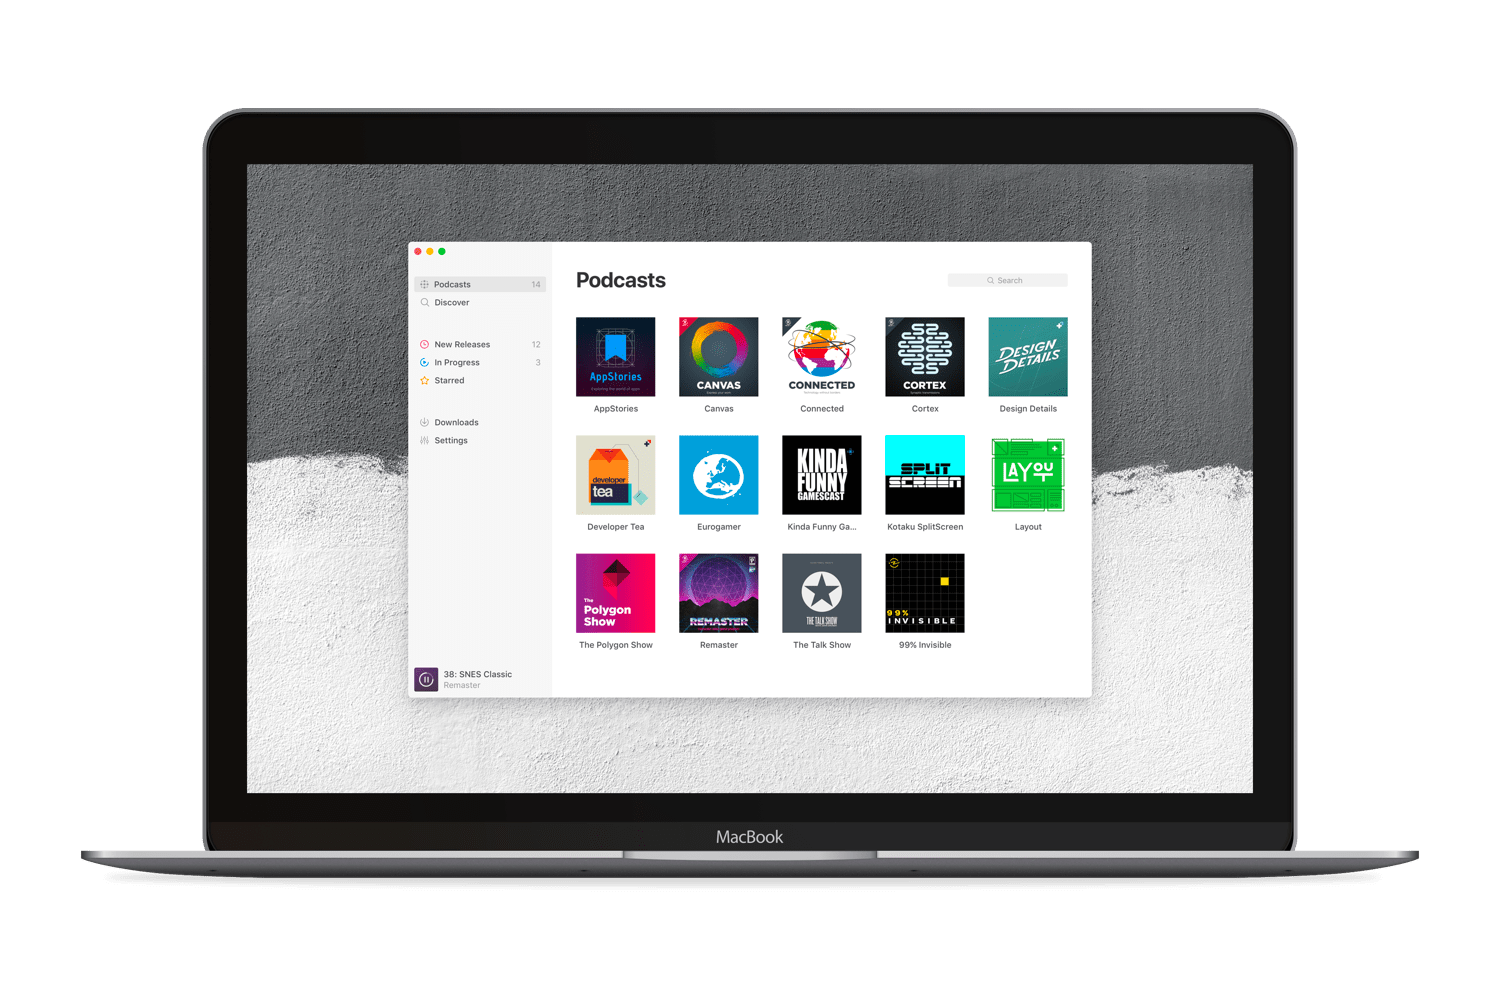
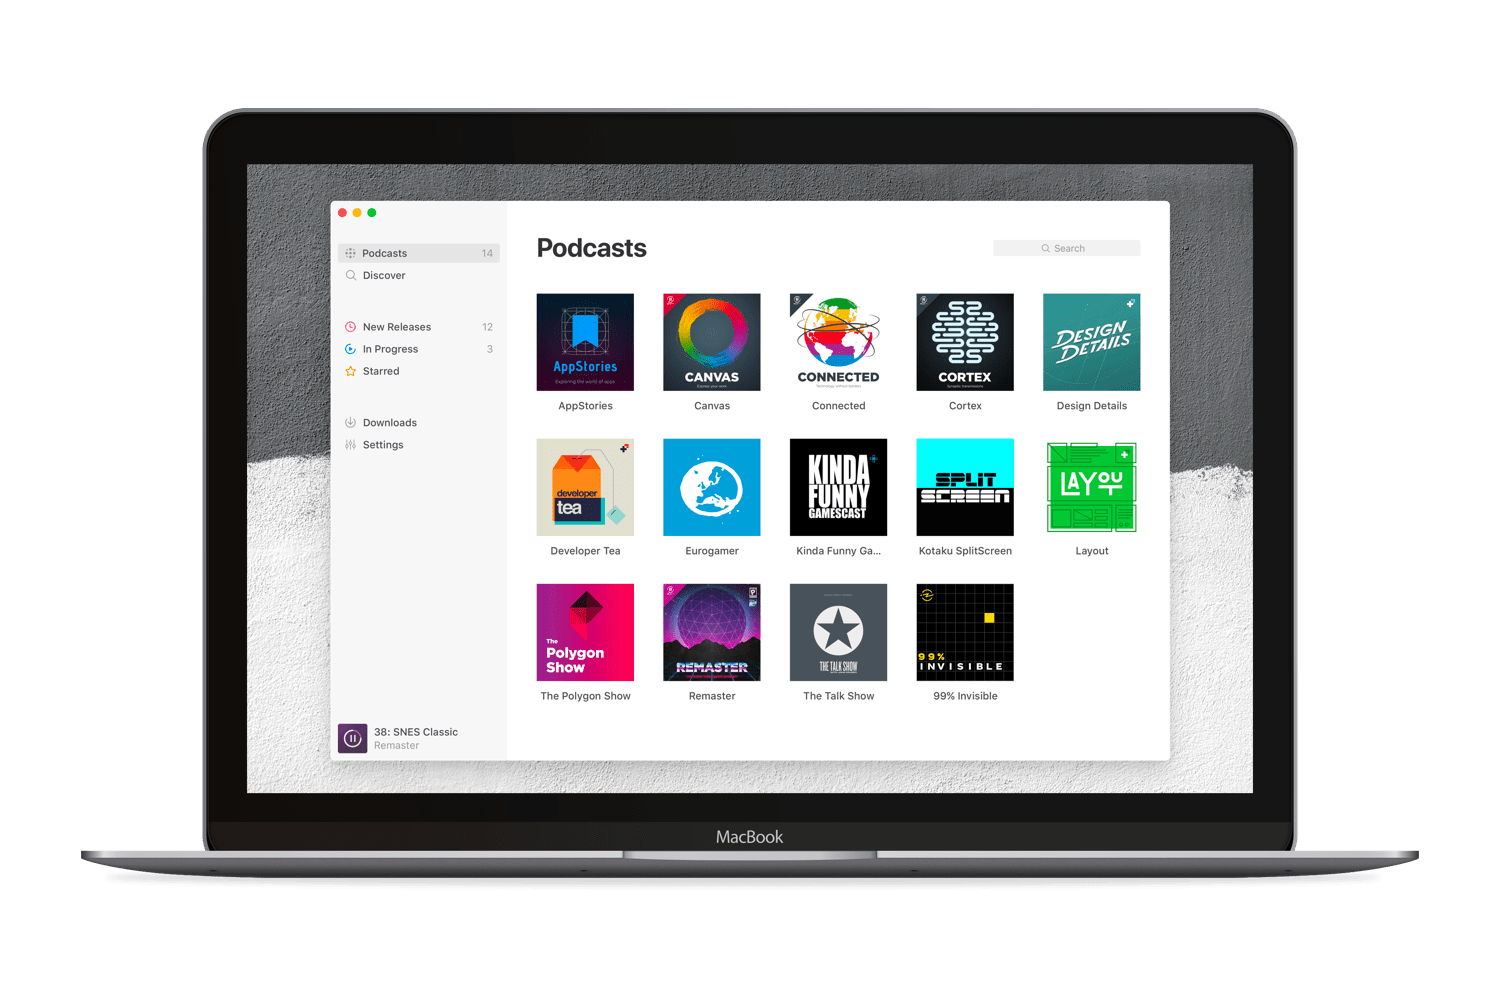
Post launch tweaks
- Added selected state to '.c-nav'
- Added captions underneath figures in case studies
- Logo is now a bit bigger on '$b__large'
- Tweaked figcaption position and font-size on larger breakpoints
- Updated Castaway artwork

Changed region(s): [[0.2147, 0.186, 0.7973, 0.775]]

diff --git a/_layouts/case-castaway.html b/_layouts/case-castaway.html
@@ -15,8 +15,8 @@
       </article>
    </section>
    {% include case-section-bleed.html
-      img="https://res.cloudinary.com/matter/image/upload/v1508749587/work/castaway/case__castaway--cover.png"
-      img2x="https://res.cloudinary.com/matter/image/upload/v1508749587/work/castaway/case__castaway--cover_2x.png"
+      img="https://res.cloudinary.com/matter/image/upload/v1509009836/work/castaway/case__castaway--cover.png"
+      img2x="https://res.cloudinary.com/matter/image/upload/v1509009836/work/castaway/case__castaway--cover_2x.png"
       imgalt="Castaway for macOS"
    %}
    <section class="c-section c-section--content">
@@ -26,24 +26,28 @@
    </section>
    <section class="c-section c-section--extend">
       {% include case-figure.html
-         img="https://res.cloudinary.com/matter/image/upload/v1508754846/work/castaway/case__castaway--podcasts.png"
-         img2x="https://res.cloudinary.com/matter/image/upload/v1508754846/work/castaway/case__castaway--podcasts_2x.png"
+         img="https://res.cloudinary.com/matter/image/upload/v1509009835/work/castaway/case__castaway--podcasts.png"
+         img2x="https://res.cloudinary.com/matter/image/upload/v1509009835/work/castaway/case__castaway--podcasts_2x.png"
          imgalt="Podcasts"
+         caption="Viewing podcasts doesn't get much prettier than this."
       %}
       {% include case-figure.html
-         img="https://res.cloudinary.com/matter/image/upload/v1508754916/work/castaway/case__castaway--podcastdetail.png"
-         img2x="https://res.cloudinary.com/matter/image/upload/v1508754921/work/castaway/case__castaway--podcastdetail_2x.png"
+         img="https://res.cloudinary.com/matter/image/upload/v1509009835/work/castaway/case__castaway--podcastdetail.png"
+         img2x="https://res.cloudinary.com/matter/image/upload/v1509009835/work/castaway/case__castaway--podcastdetail_2x.png"
          imgalt="Podcast detail"
+         caption="When viewing a podcast, the app lists all the episodes along with information about the podcast."
       %}
       {% include case-figure.html
-         img="https://res.cloudinary.com/matter/image/upload/v1508754917/work/castaway/case__castaway--discover.png"
-         img2x="https://res.cloudinary.com/matter/image/upload/v1508754918/work/castaway/case__castaway--discover_2x.png"
+         img="https://res.cloudinary.com/matter/image/upload/v1509009835/work/castaway/case__castaway--discover.png"
+         img2x="https://res.cloudinary.com/matter/image/upload/v1509009836/work/castaway/case__castaway--discover_2x.png"
          imgalt="Discover podcasts"
+         caption="The 'Discover' section is laid out almost like an 'App Store' of some sorts with clear imagery and the ability to browse based on category."
       %}
       {% include case-figure.html
-         img="https://res.cloudinary.com/matter/image/upload/v1508754917/work/castaway/case__castaway--addpodcast.png"
-         img2x="https://res.cloudinary.com/matter/image/upload/v1508754918/work/castaway/case__castaway--addpodcast_2x.png"
+         img="https://res.cloudinary.com/matter/image/upload/v1509009836/work/castaway/case__castaway--addpodcast.png"
+         img2x="https://res.cloudinary.com/matter/image/upload/v1509009840/work/castaway/case__castaway--addpodcast_2x.png"
          imgalt="Add a podcast"
+         caption="Adding a podcast is as easy as clicking Subscribe."
       %}
    </section>
    <section class="c-section c-section--bleed" style="display:none;">

diff --git a/_layouts/case-realo.html b/_layouts/case-realo.html
@@ -37,41 +37,49 @@
          img="https://res.cloudinary.com/matter/image/upload/v1508688297/work/realo/case__realo--machome.png"
          img2x="https://res.cloudinary.com/matter/image/upload/v1508688298/work/realo/case__realo--machome_2x.png"
          imgalt="Find your next home"
+         caption="The user is welcomed by an inviting homepage where he/she can search for a home."
       %}
       {% include case-figure.html
          img="https://res.cloudinary.com/matter/image/upload/v1508688297/work/realo/case__realo--machomescroll.png"
          img2x="https://res.cloudinary.com/matter/image/upload/v1508688298/work/realo/case__realo--machomescroll_2x.png"
          imgalt="Find your next home - scrolled"
+         caption="Scrolled version of the homepage."
       %}
       {% include case-figure.html
          img="https://res.cloudinary.com/matter/image/upload/v1508661995/work/realo/case__realo--macagency.png"
          img2x="https://res.cloudinary.com/matter/image/upload/v1508661996/work/realo/case__realo--macagency_2x.png"
          imgalt="Agency detail"
+         caption="The agency page gives the user a complete overview of their listings, employees and reviews."
       %}
       {% include case-figure.html
          img="https://res.cloudinary.com/matter/image/upload/v1508661995/work/realo/case__realo--macagencyscroll.png"
          img2x="https://res.cloudinary.com/matter/image/upload/v1508661995/work/realo/case__realo--macagencyscroll_2x.png"
          imgalt="Agency detail - scrolled"
+         caption="At the bottom of the agency page, the user can submit a review if they have worked with this agency before."
       %}
       {% include case-figure.html
          img="https://res.cloudinary.com/matter/image/upload/v1508685114/work/realo/case__realo--responsivesearch.png"
          img2x="https://res.cloudinary.com/matter/image/upload/v1508685114/work/realo/case__realo--responsivesearch_2x.png"
          imgalt="Responsive search"
+         caption="Realo was built from the ground up using a 'mobile-first' approach."
       %}
       {% include case-figure.html
          img="https://res.cloudinary.com/matter/image/upload/v1508686594/work/realo/case__realo--responsivesearchduo.png"
          img2x="https://res.cloudinary.com/matter/image/upload/v1508686595/work/realo/case__realo--responsivesearchduo_2x.png"
          imgalt="Responsive search duo"
+         caption="Realo is a first-class citizen on every screen size."
       %}
       {% include case-figure.html
          img="https://res.cloudinary.com/matter/image/upload/v1508687301/work/realo/case__realo--iphonetriad.png"
          img2x="https://res.cloudinary.com/matter/image/upload/v1508687302/work/realo/case__realo--iphonetriad_2x.png"
          imgalt="Search, home detail and agency mobile views"
+         caption="Clear typography and attractive iconography makes the mobile pages even more pleasant to use."
       %}
       {% include case-figure.html
          img="https://res.cloudinary.com/matter/image/upload/v1508687786/work/realo/case__realo--maccareers.png"
          img2x="https://res.cloudinary.com/matter/image/upload/v1508687787/work/realo/case__realo--maccareers_2x.png"
          imgalt="Job listings"
+         caption="Internal company pages each have a distinct look supplemented with colorful icons."
       %}
    </section>
    <section class="c-section c-section--bleed" style="display:none;">

diff --git a/_layouts/case-diabetik.html b/_layouts/case-diabetik.html
@@ -37,26 +37,31 @@
          img="https://res.cloudinary.com/matter/image/upload/v1508587795/work/diabetik/case__diabetik--phoneslideout.png"
          img2x="https://res.cloudinary.com/matter/image/upload/v1508587796/work/diabetik/case__diabetik--phoneslideout_2x.png"
          imgalt="Side menu on iPhone"
+         caption="Having a side menu means the user can access important views of the app at any time."
       %}
       {% include case-figure.html
          img="https://res.cloudinary.com/matter/image/upload/v1508587796/work/diabetik/case__diabetik--tabletslideout.png"
          img2x="https://res.cloudinary.com/matter/image/upload/v1508587796/work/diabetik/case__diabetik--tabletslideout_2x.png"
          imgalt="Side menu on iPad"
+         caption="The app has an elegant and clean look, even on iPad."
       %}
       {% include case-figure.html
          img="https://res.cloudinary.com/matter/image/upload/v1508587682/work/diabetik/case__diabetik--phoneaddentry.png"
          img2x="https://res.cloudinary.com/matter/image/upload/v1508587682/work/diabetik/case__diabetik--phoneaddentry_2x.png"
          imgalt="Add entry on iPhone"
+         caption="Adding entries is an essential part of Diabetik. With fields that are pre-filled based on the time of day and type of entry, we make sure adding entries is as convenient as possible."
       %}
       {% include case-figure.html
          img="https://res.cloudinary.com/matter/image/upload/v1508590583/work/diabetik/case__diabetik--tabletjournal.png"
          img2x="https://res.cloudinary.com/matter/image/upload/v1508590584/work/diabetik/case__diabetik--tabletjournal_2x.png"
          imgalt="Journal on iPad"
+         caption="With the bigger screen of iPad, we give the user a nice visual breakdown in a calender-like format."
       %}
       {% include case-figure.html
          img="https://res.cloudinary.com/matter/image/upload/v1508590584/work/diabetik/case__diabetik--tablettimeline.png"
          img2x="https://res.cloudinary.com/matter/image/upload/v1508590584/work/diabetik/case__diabetik--tablettimeline_2x.png"
          imgalt="Timeline on iPad"
+         caption="The user can view multiple days at a time."
       %}
       {% include case-figure.html
          img="https://res.cloudinary.com/matter/image/upload/v1508590904/work/diabetik/case__diabetik--tabletaddentry.png"

diff --git a/_layouts/case-immobrown.html b/_layouts/case-immobrown.html
@@ -29,16 +29,19 @@
          img="https://res.cloudinary.com/matter/image/upload/v1508835252/work/immobrown/case__immobrown--iphoneresponsive.png"
          img2x="https://res.cloudinary.com/matter/image/upload/v1508835252/work/immobrown/case__immobrown--iphoneresponsive_2x.png"
          imgalt="Responsive"
+         caption="Immo Brown was built from the groun up with a 'mobile-first' approach"
       %}
       {% include case-figure.html
          img="https://res.cloudinary.com/matter/image/upload/v1508835731/work/immobrown/case__immobrown--macdetail.png"
          img2x="https://res.cloudinary.com/matter/image/upload/v1508835732/work/immobrown/case__immobrown--macdetail_2x.png"
          imgalt="Home detail"
+         caption="Viewing a property is a pleasant experience due to the large images and clear typography."
       %}
       {% include case-figure.html
          img="https://res.cloudinary.com/matter/image/upload/v1508835731/work/immobrown/case__immobrown--macdetailscroll.png"
          img2x="https://res.cloudinary.com/matter/image/upload/v1508835731/work/immobrown/case__immobrown--macdetailscroll_2x.png"
          imgalt="Home detail - scrolled"
+         caption="Scrolled version of the property page"
       %}
       {% include case-figure.html
          img="https://res.cloudinary.com/matter/image/upload/v1508835252/work/immobrown/case__immobrown--macprojects.png"

diff --git a/assets/styles/global.css b/assets/styles/global.css
@@ -371,7 +371,7 @@ code {
 figcaption p {
   font-size: 0.75rem;
   line-height: 1.25;
-  color: #555;
+  color: #999;
   font-weight: 400; }
   @media (min-width: 1040px) {
     figcaption p {
@@ -455,7 +455,7 @@ a {
     fill: #fff; }
     @media (min-width: 1040px) {
       .c-branding .c-branding__svg {
-        width: 140px; } }
+        width: 150px; } }
 
 .c-nav .c-nav__items {
   padding: 0;
@@ -475,7 +475,9 @@ a {
       .c-nav .c-nav__items .c-nav__item a:hover {
         color: #fff; }
       .c-nav .c-nav__items .c-nav__item a.c-nav__item--selected {
-        color: #fff; }
+        padding-bottom: 0.4rem;
+        color: #fff;
+        border-bottom: 2px solid #999; }
 
 .c-section {
   margin-bottom: 4vh;
@@ -522,13 +524,21 @@ a {
     margin-bottom: 2vh; }
   .c-figure figcaption {
     text-align: center; }
+    .c-figure figcaption p {
+      margin-bottom: 0.5rem; }
+    @media (min-width: 680px) {
+      .c-figure figcaption {
+        margin-top: -0.5rem; } }
+    @media (min-width: 1040px) {
+      .c-figure figcaption {
+        margin-top: -1.5rem; } }
 
 .c-figure--contained {
   padding: 1rem;
   background: #1f1f1f; }
   .c-figure--contained img {
     margin-bottom: 0; }
-  @media (min-width: 680px) {
+  @media (min-width: 1040px) {
     .c-figure--contained {
       padding: 3rem; } }
 

diff --git a/_src/styles/components/_figure.scss b/_src/styles/components/_figure.scss
@@ -9,6 +9,15 @@
    }
    figcaption {
       text-align: center;
+      p {
+         margin-bottom: 0.5rem;
+      }
+      @media(min-width: $b__medium) {
+         margin-top: -0.5rem;
+      }
+      @media(min-width: $b__large) {
+         margin-top: -1.5rem;
+      }
    }
 }
 .c-figure--contained {
@@ -17,7 +26,7 @@
    img {
       margin-bottom: 0;
    }
-   @media(min-width: $b__medium) {
+   @media(min-width: $b__large) {
       padding: 3rem;
    }
 }

diff --git a/_src/styles/components/_nav.scss b/_src/styles/components/_nav.scss
@@ -17,7 +17,9 @@
                color: $c__neutral__white;
             }
             &.c-nav__item--selected {
+               padding-bottom: 0.4rem;
                color: $c__neutral--white;
+               border-bottom: 2px solid $c__neutral--light;
             }
          }
       }

diff --git a/_src/styles/components/_typography.scss b/_src/styles/components/_typography.scss
@@ -61,7 +61,7 @@ code {
 figcaption {
    p {
       @include fs__micro;
-      color: $c__neutral--mid;
+      color: $c__neutral--light;
       font-weight: $fw__regular;
    }
 }

diff --git a/_src/styles/components/_branding.scss b/_src/styles/components/_branding.scss
@@ -8,7 +8,7 @@
       width: 130px;
       fill: $c__neutral--white;
       @media (min-width: $b__large) {
-         width: 140px;
+         width: 150px;
       }
    }
 }
